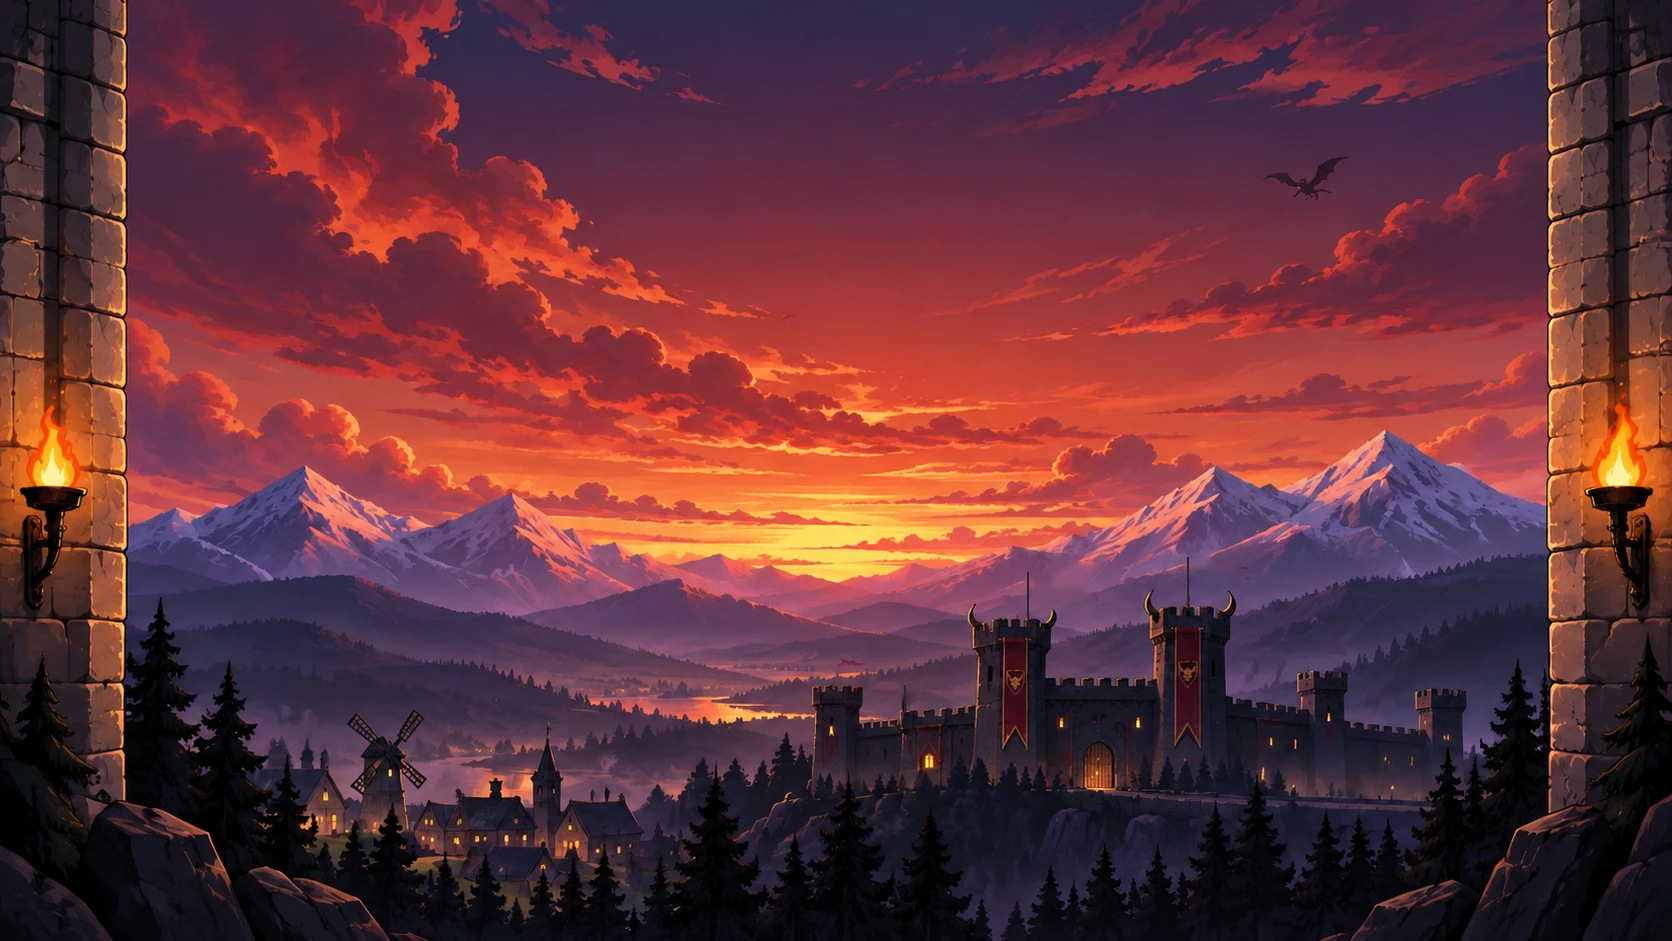
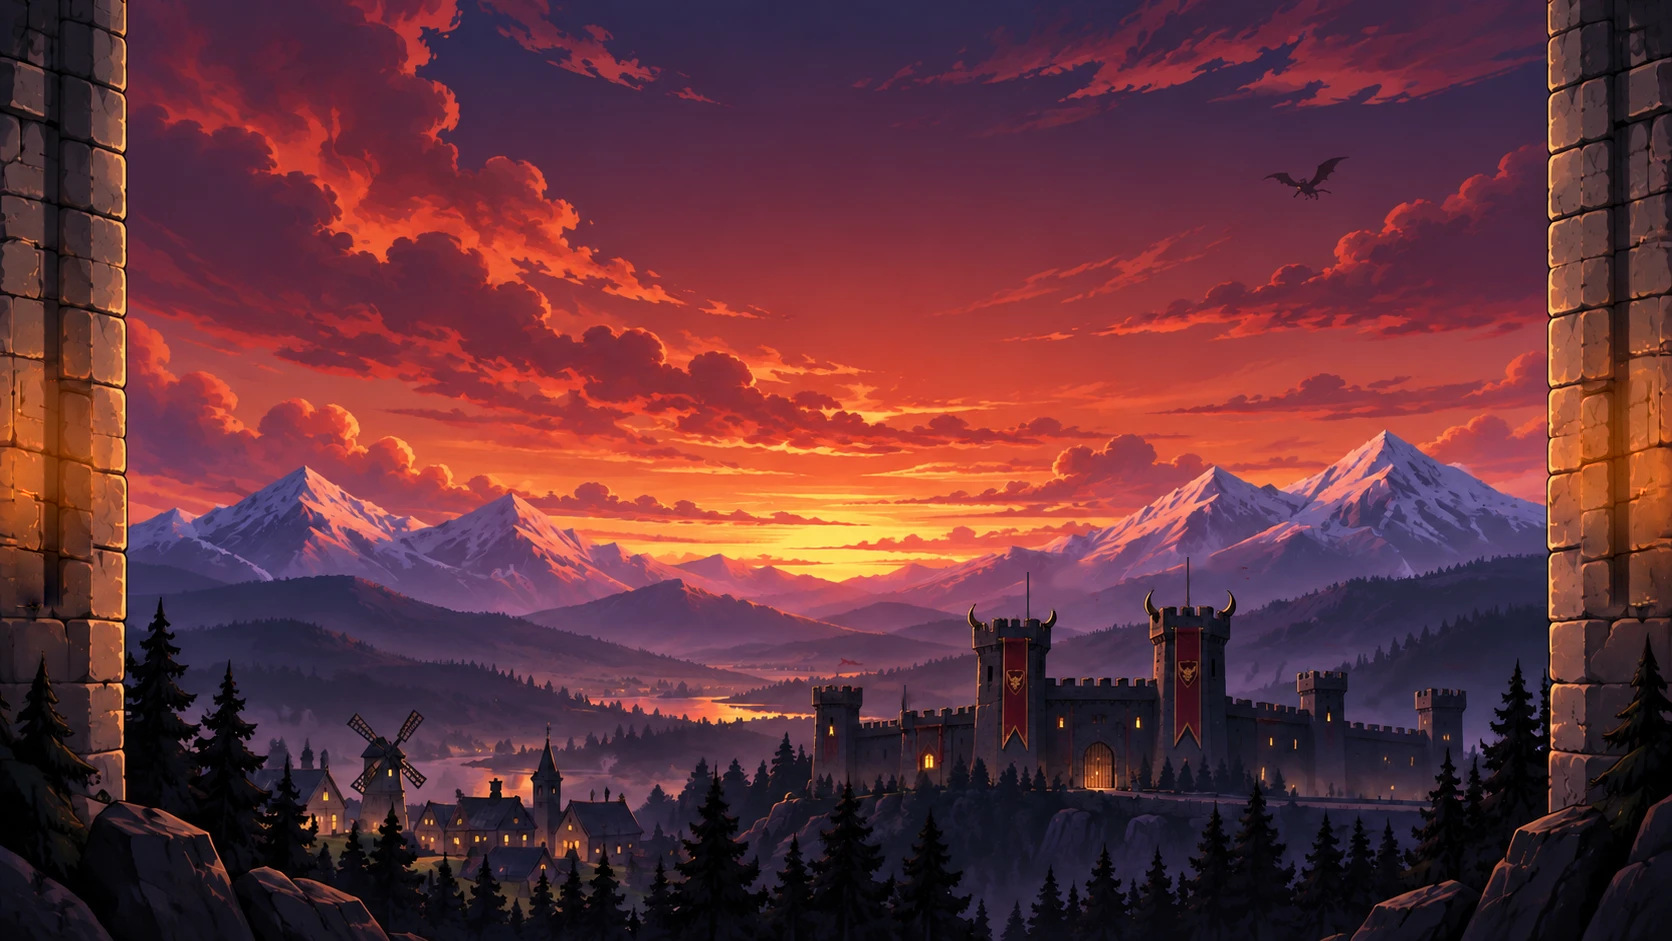
[UI] 타이틀: 금빛 테두리·돌벽돌 띠 제거, 그림 속 횃불을 기둥 돌 질감으로 지우고, 양옆 문장 깃발 복원 / 마왕 말소리를 전용 소리 묶음(VoiceBank)으로
- 타이틀 그림 속 양쪽 횃불(불꽃·받침)을 위쪽의 깨끗한 돌 질감으로 이어 붙여 제거(OpenCV seamlessClone)
- 그려 둔 배경에서는 BuildFrame(금빛 줄·모서리 마름모·돌벽돌 띠)과 코드 횃불을 만들지 않는다. 양옆에 늘어진 문장 깃발은 다시 흔들린다
- MawangVoice/VoiceBank: 마왕 말소리 12종을 공용 카탈로그와 별개로 직접 들고 재생. 못 찾으면 Player.log 에 경고

Changed region(s): [[0.933, 0.4006, 0.9952, 0.6472], [0.0, 0.4006, 0.0622, 0.6472]]

diff --git a/Assets/01.Scripts/Audio/MawangVoice.cs b/Assets/01.Scripts/Audio/MawangVoice.cs
@@ -1,0 +1,40 @@
+using UnityEngine;
+
+namespace OZGL2.UIBridge
+{
+    /// <summary>
+    /// 마왕의 말소리(옹알이) 한 음절을 낸다. 튜토리얼 대사와 오프닝 스토리가 쓴다.
+    /// 전용 소리 묶음(VoiceBank)을 먼저 쓰고, 없으면 공용 카탈로그의 TutorialVoice 슬롯으로 대신한다. 음소거·음량 설정은 효과음과 똑같이 따른다.
+    /// 소리를 못 찾으면 한 번만 경고를 남겨(Player.log) 원인을 알 수 있게 한다.
+    /// </summary>
+    public static class MawangVoice
+    {
+        private const float MinInterval = 0.05f;
+        private static VoiceBank _bank;
+        private static bool _loaded, _warned;
+        private static float _last = float.NegativeInfinity;
+        private static int _lastIndex = -1;
+
+        [RuntimeInitializeOnLoadMethod(RuntimeInitializeLoadType.SubsystemRegistration)]
+        private static void Reset() { _bank = null; _loaded = false; _warned = false; _last = float.NegativeInfinity; _lastIndex = -1; }
+
+        public static void Play(float pitchScale = 1f)
+        {
+            if (!_loaded) { _bank = Resources.Load<VoiceBank>("Voice/MawangVoiceBank"); _loaded = true; }
+            if (_bank == null || _bank.clips == null || _bank.clips.Length == 0)
+            {
+                if (!_warned) { _warned = true; Debug.LogWarning("[마왕 말소리] Resources/Voice/MawangVoiceBank 를 찾지 못해 공용 효과음 슬롯(TutorialVoice)으로 대신합니다."); }
+                Sfx.Play(SfxId.TutorialVoice, pitchScale);
+                return;
+            }
+            float now = Time.unscaledTime;
+            if (now - _last < MinInterval) return;
+            int count = _bank.clips.Length, pick = Random.Range(0, count);
+            if (count > 1 && pick == _lastIndex) pick = (pick + Random.Range(1, count)) % count;
+            var clip = _bank.clips[pick];
+            if (clip == null) return;
+            _last = now; _lastIndex = pick;
+            Sfx.PlayClip(clip, _bank.volume, false, pitchScale * Random.Range(0.94f, 1.06f));
+        }
+    }
+}

diff --git a/Assets/01.Scripts/UIBridge/TitleScreen.cs b/Assets/01.Scripts/UIBridge/TitleScreen.cs
@@ -340,11 +340,9 @@ namespace OZGL2.UIBridge
             for (int i = 0; i < 30; i++) SpawnEmber(root);
 
             // 7) 양옆에 늘어진 문장 깃발
-            if (!painted)
-            {
-                SpawnBanner(root, -1f);
-                SpawnBanner(root, 1f);
-            }
+            // 양옆에 늘어진 문장 깃발은 그려 둔 배경 위에서도 그대로 흔들린다
+            SpawnBanner(root, -1f);
+            SpawnBanner(root, 1f);
 
             // 8) 로고(가운데, 통통 튀며 나타난다) + 뒤의 빛
             _logoGlow = NewImage("LogoGlow", root, _glow, new Color(1f, 0.70f, 0.38f, 0.40f));
@@ -415,11 +413,14 @@ namespace OZGL2.UIBridge
             RegisterIntro(ButtonRect(MakeTitleMenuButton(root, "나가기", new Vector2(utilityX, utilityY), new Vector2(utilityW, utilityH), 34f, false, _titleExitIcon, QuitGame)), 0.85f);
 
             // 10) 돌담 테두리 + 가장자리를 어둡게 하는 비네팅
-            BuildFrame(root);
+            if (!painted) BuildFrame(root);   // 그려 둔 배경에는 기둥이 이미 있어서, 돌벽돌 띠·금빛 테두리·모서리 장식은 넣지 않는다
             var vignette = NewImage("Vignette", root, MakeVignette(), Color.white);
             Stretch(vignette.rectTransform); vignette.raycastTarget = false;
-            SpawnWallTorch(root, -1f);
-            SpawnWallTorch(root, 1f);
+            if (!painted)
+            {
+                SpawnWallTorch(root, -1f);
+                SpawnWallTorch(root, 1f);
+            }
 
             // 11) 설정 창(맨 위) + 화면 전환용 검은 막
             BuildSettings(root);

diff --git a/Assets/01.Scripts/Audio/Sfx.cs b/Assets/01.Scripts/Audio/Sfx.cs
@@ -141,7 +141,7 @@ public static class Sfx
     /// 카탈로그 슬롯 없이 클립을 직접 재생한다(스킬처럼 소리가 데이터 에셋에 달려 있는 경우).
     /// 마스터 볼륨·음소거 설정은 Play(SfxId)와 똑같이 따른다. duckBgm이면 알림음처럼 재생되는 동안 BGM을 줄인다.
     /// </summary>
-    public static void PlayClip(AudioClip clip, float volume = 1f, bool duckBgm = false)
+    public static void PlayClip(AudioClip clip, float volume = 1f, bool duckBgm = false, float pitch = 1f)
     {
         if (clip == null || Muted || SfxMuted)
         {
@@ -150,7 +150,7 @@ public static class Sfx
 
         SfxCatalogSO catalog = Catalog;
         float master = (catalog != null ? catalog.masterVolume : 1f) * MasterVolume * SfxVolume;
-        SfxPlayer.Play(clip, volume * master, 1f);
+        SfxPlayer.Play(clip, volume * master, pitch);
 
         if (duckBgm)
         {

diff --git a/Assets/01.Scripts/Audio/VoiceBank.cs b/Assets/01.Scripts/Audio/VoiceBank.cs
@@ -1,0 +1,14 @@
+using UnityEngine;
+
+namespace OZGL2.UIBridge
+{
+    /// <summary>
+    /// 마왕이 말할 때 나는 옹알이 소리 12종. 공용 효과음 카탈로그(SfxCatalog)와 별개로, 마왕 말소리가 늘 들리도록 이 에셋이 클립을 직접 들고 있다.
+    /// Resources/Voice/MawangVoiceBank 에 두고 MawangVoice 가 읽는다.
+    /// </summary>
+    public sealed class VoiceBank : ScriptableObject
+    {
+        public AudioClip[] clips;
+        [Range(0f, 1f)] public float volume = 0.5f;
+    }
+}

diff --git a/Assets/01.Scripts/Tutorial/TutorialDirector.cs b/Assets/01.Scripts/Tutorial/TutorialDirector.cs
@@ -222,7 +222,7 @@ namespace OZGL2.Tutorial
                 float semitone = BabbleSteps[(c * 7 + 3) % BabbleSteps.Length] - 3f; // 마왕답게 전체를 낮춘다
                 char next = i + 1 < info.characterCount ? info.characterInfo[i + 1].character : ' ';
                 if (next == '?' || next == '!') semitone += 3f;
-                Sfx.Play(SfxId.TutorialVoice, Mathf.Pow(2f, semitone / 12f));
+                OZGL2.UIBridge.MawangVoice.Play(Mathf.Pow(2f, semitone / 12f));
             }
         }
 

diff --git a/Assets/01.Scripts/UIBridge/StoryIntro.cs b/Assets/01.Scripts/UIBridge/StoryIntro.cs
@@ -347,7 +347,7 @@ namespace OZGL2.UIBridge
                 if (!string.IsNullOrEmpty(Slides[_index].Speaker) && want - _lastVoice >= 2)
                 {
                     _lastVoice = want;
-                    Sfx.Play(SfxId.TutorialVoice, UnityEngine.Random.Range(0.92f, 1.14f));
+                    MawangVoice.Play(UnityEngine.Random.Range(0.92f, 1.14f));
                 }
             }
             if (want >= total) { _typing = false; OnTypingDone(); }
